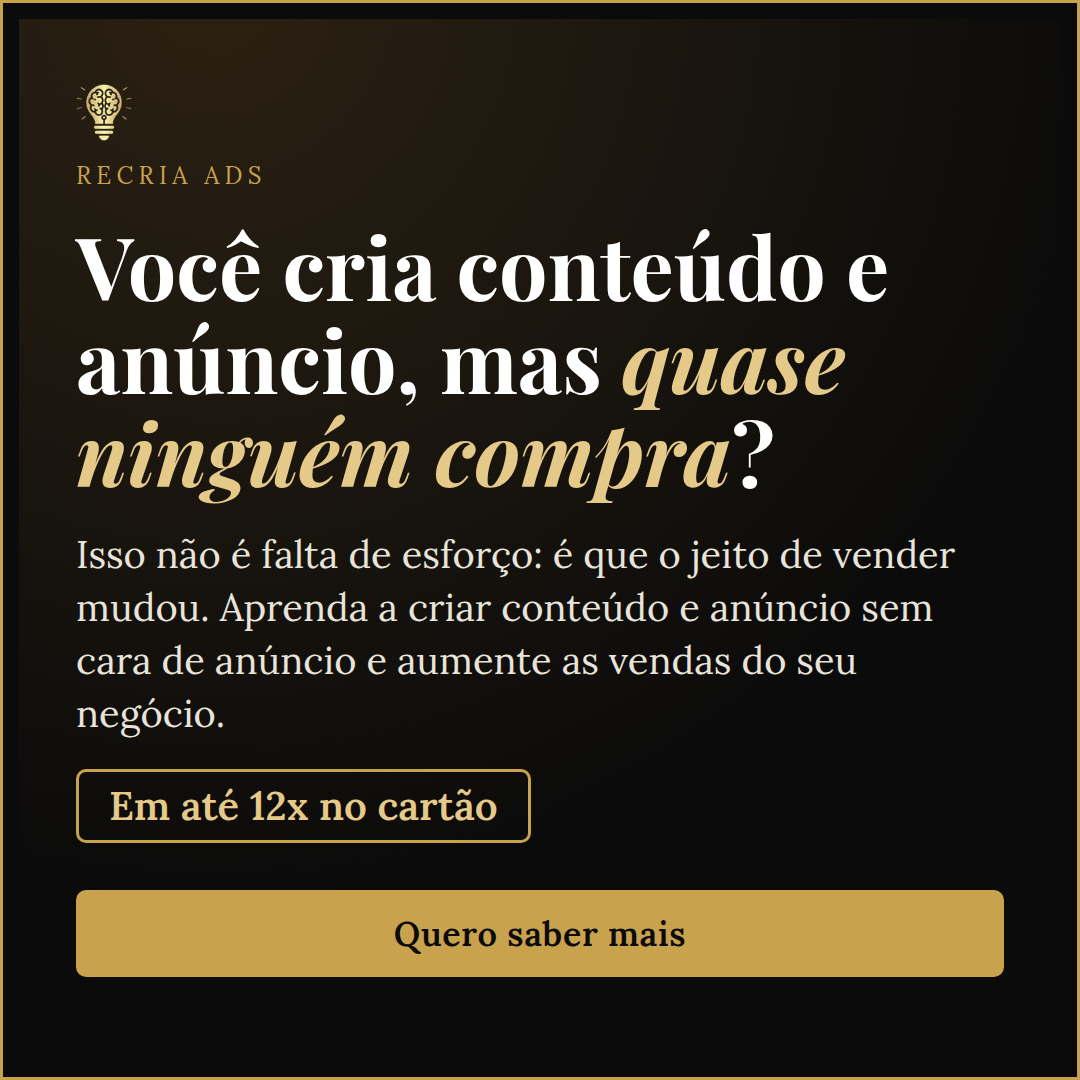
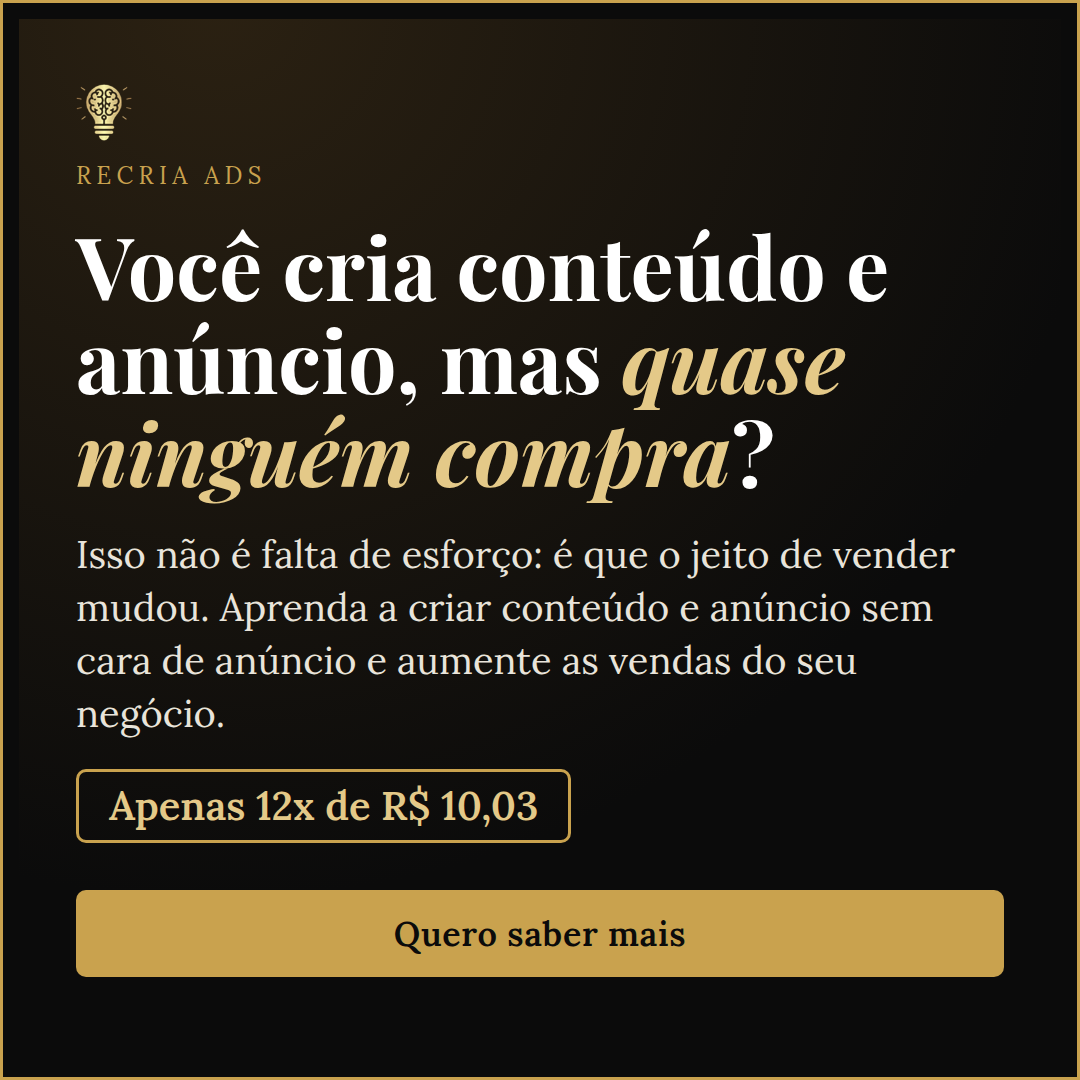
Criativo 1 com 12x de R$ 10,03 e legendas do Recria Ads
Claude-Session: https://claude.ai/code/session_01DxpPKgzfVt8WYQSkZW1Msu

Changed region(s): [[0.0917, 0.7028, 0.5194, 0.7944]]

diff --git a/recria/criativos-estaticos/gerar-recria-ads.js b/recria/criativos-estaticos/gerar-recria-ads.js
@@ -6,7 +6,7 @@ const FORMATS={
  'feed-1x1':{w:1080,h:1080,pad:'84px 76px 84px',ic:56,k:24,h1:[88,44],s:[38,24],pill:40,cta:34,ctap:22,gap:18}
 };
 const ITEMS=[
-["ads-1-dor","Recria Ads","Você cria conteúdo e anúncio, mas <em>quase ninguém compra</em>?","Isso não é falta de esforço: é que o jeito de vender mudou. Aprenda a criar conteúdo e anúncio sem cara de anúncio e aumente as vendas do seu negócio.","Em até 12x no cartão","Quero saber mais",""],
+["ads-1-dor","Recria Ads","Você cria conteúdo e anúncio, mas <em>quase ninguém compra</em>?","Isso não é falta de esforço: é que o jeito de vender mudou. Aprenda a criar conteúdo e anúncio sem cara de anúncio e aumente as vendas do seu negócio.","Apenas 12x de R$ 10,03","Quero saber mais",""],
 ["ads-2-virada","Recria Ads","Todo mundo pula anúncio. Mas para por uma <em>boa história</em>.","Aprenda a criar conteúdos e anúncios sem parecer aquele vendedor chato. Venda com leveza e naturalidade, até em conteúdos que não são de venda direta.","","Saiba mais clicando aqui",""],
 ["ads-3-prova","Recria Ads","Aprenda a criar conteúdos que <em>atraem, engajam e vendem</em>. Com leveza.","Olha esse carrossel do meu perfil de yoga: atraí as pessoas, elas se identificaram e comentaram “eu quero”. No direct, continuei a conversa com a oferta do meu curso e vendi. Tudo configurado de forma automatizada. Você também quer aprender?","","Quero saber mais","prova"]
 ];

diff --git a/recria/criativos-estaticos/recria-ads/legendas-recria-ads.md b/recria/criativos-estaticos/recria-ads/legendas-recria-ads.md
@@ -1,0 +1,21 @@
+# Legendas dos criativos do Recria Ads (feed 1x1)
+
+Destino: https://www.agenciarecria.com.br/recria-ads/?utm_source=meta&utm_medium=paid&utm_campaign=recria-ads&utm_content=<c1-dor | c2-virada | c3-prova | c4-carrossel>
+
+## Criativo 1 (ads-1-dor.png), com preço
+Você cria conteúdo e anúncio, mas quase ninguém compra? 🤔
+Isso não é falta de esforço: é que o jeito de vender mudou.
+No Recria Ads, você aprende a criar conteúdo e anúncio sem cara de anúncio e aumenta as vendas do seu negócio, com aulas de 10 minutos por dia.
+💳 Apenas 12x de R$ 10,03.
+👉 Clique em "Quero saber mais".
+
+## Criativo 2 (ads-2-virada.png)
+Todo mundo pula anúncio. Mas para por uma boa história. 📖
+No Recria Ads, você aprende a criar conteúdos e anúncios sem parecer aquele vendedor chato. Venda com leveza e naturalidade, até em conteúdos que não são de venda direta.
+👉 Saiba mais clicando no botão.
+
+## Criativo 3 (ads-3-prova.png)
+Esse carrossel é do meu perfil de yoga. Atraí as pessoas, elas se identificaram e comentaram "eu quero". No direct, continuei a conversa com a oferta do meu curso e vendi. Tudo configurado de forma automatizada.
+Quer aprender a criar conteúdos que atraem, engajam e vendem, com leveza? É isso que eu ensino no Recria Ads.
+👉 Clique em "Quero saber mais".
+*Caso real do meu perfil de yoga. Os resultados variam de pessoa para pessoa.*
